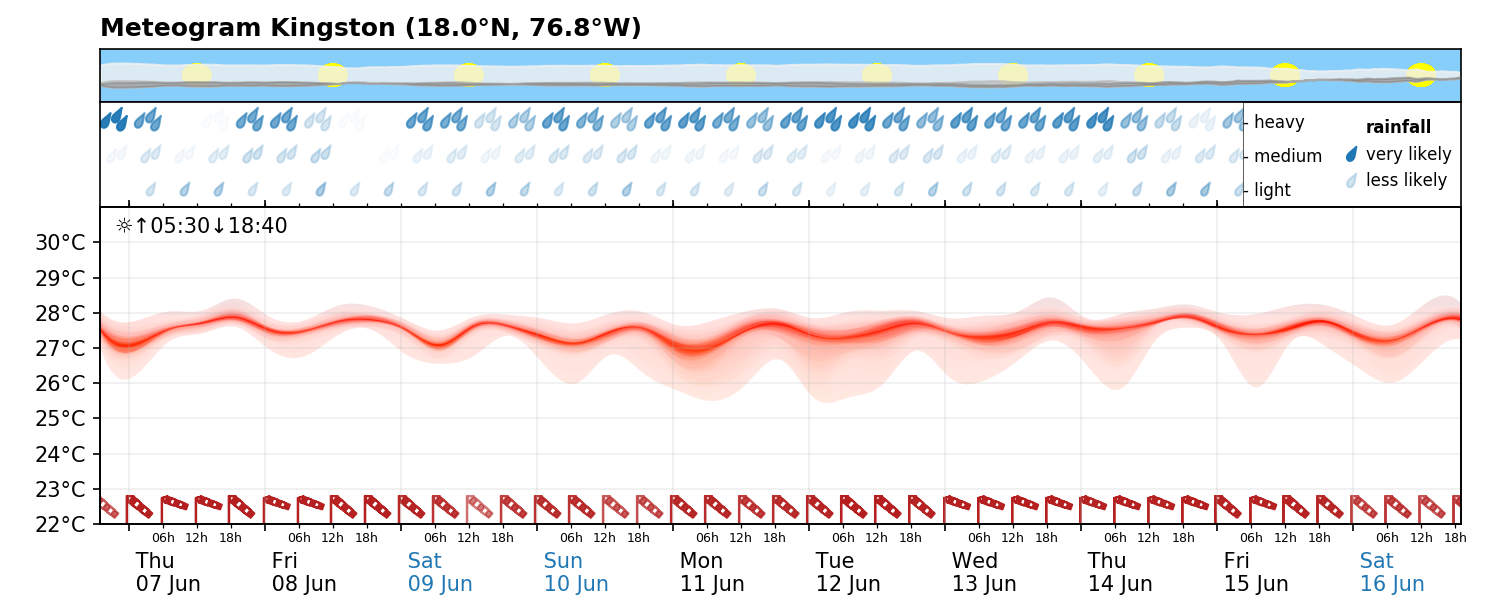
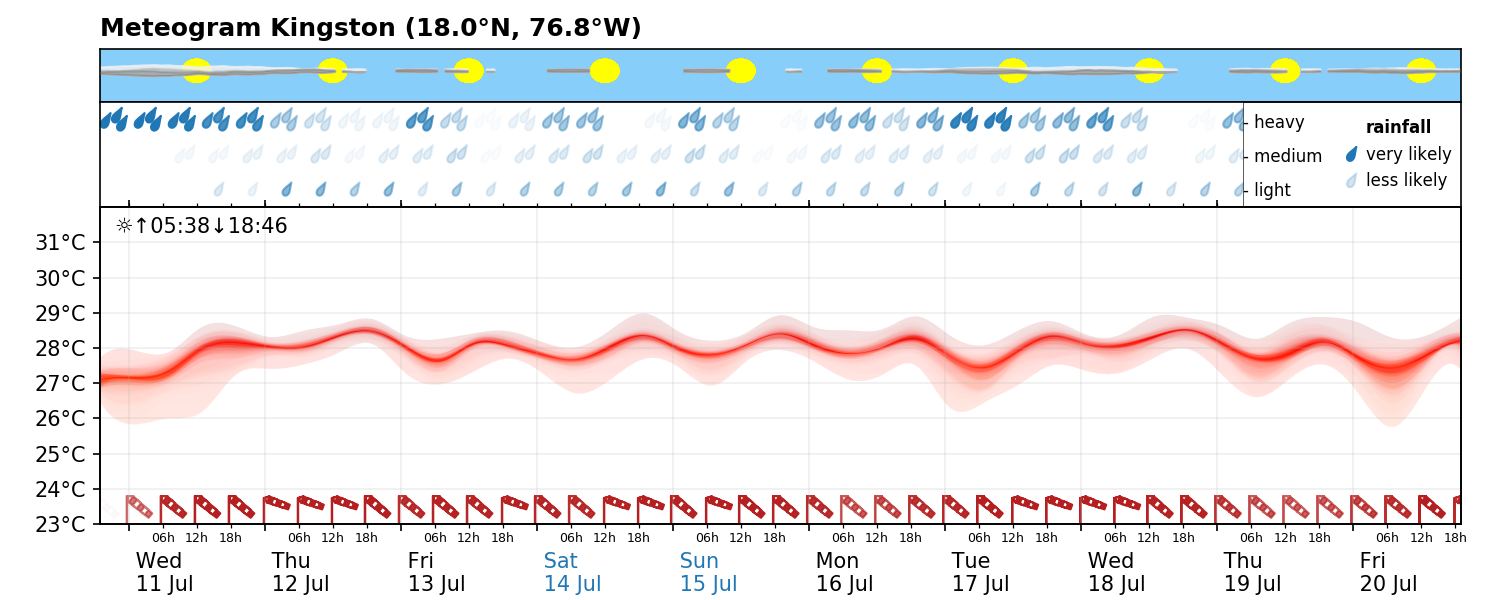
with lightning bolts

diff --git a/meteogram.py b/meteogram.py
@@ -19,6 +19,7 @@ import pytz
 import warnings
 from droplet import droplet
 from wind_sock import wind_sock
+from lightning_bolt import lightning_bolt
 
 # LOCATION ARGUMENT
 tz = tzwhere.tzwhere()
@@ -36,42 +37,6 @@ else:
 def find_closest(x,a):
     """ Finds the closest index in x to a given value a."""
     return np.argmin(abs(x-a))
-
-def add_clouds_to(axis,dates,highcloud,midcloud,lowcloud, interp=True):
-    """ Adds the different types of clouds to a given axis."""
-    # add sun (and moon?)
-    for t in np.arange(len(dates)):
-        idate = datetime.datetime(2018,6,7,12,0)
-        while idate < dates[-1]:
-            #sun = Circle((dates[t], 0.5), 0.2, color='yellow', zorder=0)
-            sun = Ellipse((idate, 0.5), 0.4/2., 0.4, angle=0.0, color='yellow', zorder=0)
-            axis.add_artist(sun)
-            idate = idate + datetime.timedelta(1)
-
-    # interpolate dates (if set)
-    if interp:
-        dates = spline_dates(dates)
-
-    # add mean cloud covers and scale to [0...1]
-    highcloudm = np.median(highcloud,axis=1)
-    midcloudm = np.median(midcloud,axis=1)
-    lowcloudm = np.median(lowcloud,axis=1)
-
-    totalcloud=(highcloudm+midcloudm+lowcloudm)/3.
-    totalcloudhalf=totalcloud/2.
-    lowerbound=-totalcloudhalf+0.5
-    upperbound=totalcloudhalf+0.5
-
-    # don't plot clouds where totalcloud <= e.g. 0.05
-    threshold=0.05
-
-    # highcloud light grey, lowcloud dark grey
-    axis.fill_between(dates, y1=lowerbound, y2=upperbound, color='0.95',zorder=1, alpha=0.8, edgecolor='none',where=totalcloud>=threshold)
-    axis.fill_between(dates, y1=lowerbound, y2=upperbound-highcloudm/3., color='0.7',zorder=2, alpha=0.6, edgecolor='none',where=totalcloud>=threshold)
-    axis.fill_between(dates, y1=lowerbound, y2=lowerbound+lowcloudm/3.,  color='0.4',zorder=3, alpha=0.3, edgecolor='none',where=totalcloud>=threshold)
-    axis.set_facecolor('lightskyblue')
-    axis.set_xlim([dates[0],dates[-1]])
-    axis.set_ylim([0., 1])
 
 def convert_longitude(lon):
     if lon < 0:
@@ -126,7 +91,7 @@ def sunrise_string(loc,date,utcoffset):
     return sunsymb+arrowup+sunrise_str+arrowdn+sunset_str
 
 # READ DATA
-DAT = Dataset(HERE_PATH+"/data/forecast.nc")
+DAT = Dataset(HERE_PATH+"/data/surface.nc")
 DATrain = Dataset(HERE_PATH+"/data/precip.nc")
 
 # grid
@@ -267,7 +232,7 @@ def storm(spd):
     
     # turn into alpha values
     colormat = np.zeros((p_storm.shape[0],4))
-    colormat[:,0] = color[0]         # RGB values of "C0" matplotlib standard
+    colormat[:,0] = color[0]
     colormat[:,1] = color[1]
     colormat[:,2] = color[2]
     
@@ -277,12 +242,45 @@ def storm(spd):
 
 p_storm,storm_strength = storm(spd)
 
+def lightning(lcc,mcc,hcc):
+    # fake some lightning chance
+    tcc = (hcc + mcc + lcc)/3.
+    cthresh = 0.95
+    p_light = np.mean(tcc > cthresh,axis=1)
+    
+    p_light[p_light >= 0.5] = 1.
+    p_light[np.logical_and(p_light >= 0.1,p_light < .5)] = .7
+    p_light[p_light < 0.1] = 0.
+    
+    # turn into alpha values
+    colormat1 = np.zeros((p_light.shape[0],4))
+    colormat1[:,0] = 1.
+    colormat1[:,1] = 1.
+    colormat1[:,2] = 0.
+    
+    colormat1[:,3] = p_light
+    
+    colormat2 = np.zeros((p_light.shape[0],4))
+    colormat2[:,0] = 0.
+    colormat2[:,1] = 0.
+    colormat2[:,2] = 0.
+    
+    colormat2[:,3] = p_light
+    
+    
+    return colormat1,colormat2
+
+p_light1,p_light2 = lightning(lcc,mcc,hcc)
+    
+
 #  axes formatting
 def cloud_ax_format(ax,dates,loc):
     loc_name = loc.address.split(",")[0]
     ax.set_title("Meteogram "+loc_name+" ("+lat_string(loc.latitude)+", "+lon_string(loc.longitude)+")",loc="left",fontweight="bold")
     ax.set_xticks([])
     ax.set_yticks([])
+    ax.set_xlim([dates[0],dates[-1]])
+    ax.set_ylim([-0.2, 1])
 
 def rain_ax_format(ax,dates,rain_explanation,dsize=78,dstring=(2,0,45)):
     ax.set_xlim(dates[0],dates[-1])
@@ -372,6 +370,40 @@ def wind_ax_format(ax,dates):
     # ax.get_xaxis().set_tick_params(which='minor', direction='in')
     # ax.get_xaxis().set_tick_params(which='major', direction='in')
     ax.set_xticklabels([])
+    
+def clouds_plotter(axis,dates,highcloud,midcloud,lowcloud, interp=True):
+    """ Adds the different types of clouds to a given axis."""
+    # add sun (and moon?)
+    for t in np.arange(len(dates)):
+        idate = datetime.datetime(2018,6,7,12,0)
+        while idate < dates[-1]:
+            #sun = Circle((dates[t], 0.5), 0.2, color='yellow', zorder=0)
+            sun = Ellipse((idate, 0.5), 0.4/2., 0.5, angle=0.0, color='yellow', zorder=0)
+            axis.add_artist(sun)
+            idate = idate + datetime.timedelta(1)
+
+    # interpolate dates (if set)
+    if interp:
+        dates = spline_dates(dates)
+
+    # add mean cloud covers and scale to [0...1]
+    highcloudm = np.median(highcloud,axis=1)
+    midcloudm = np.median(midcloud,axis=1)
+    lowcloudm = np.median(lowcloud,axis=1)
+
+    totalcloud=(highcloudm+midcloudm+lowcloudm)/3.
+    totalcloudhalf=totalcloud/2.
+    lowerbound=-totalcloudhalf+0.5
+    upperbound=totalcloudhalf+0.5
+
+    # don't plot clouds where totalcloud <= e.g. 0.05
+    threshold=0.05
+
+    # highcloud light grey, lowcloud dark grey
+    axis.fill_between(dates, y1=lowerbound, y2=upperbound, color='0.95',zorder=1, alpha=0.8, edgecolor='none',where=totalcloud>=threshold)
+    axis.fill_between(dates, y1=lowerbound, y2=upperbound-highcloudm/3., color='0.7',zorder=2, alpha=0.6, edgecolor='none',where=totalcloud>=threshold)
+    axis.fill_between(dates, y1=lowerbound, y2=lowerbound+lowcloudm/3.,  color='0.4',zorder=3, alpha=0.3, edgecolor='none',where=totalcloud>=threshold)
+    axis.set_facecolor('lightskyblue')
 
 
 def temp_plotter(ax, dates, t_mean_spline, t_data_spline, tminmax,color='white',alpha=0.09):
@@ -415,7 +447,7 @@ def rain_plotter(ax,lightrain,medrain,heavyrain,rdates,dsize=78,dstring=(2,0,45)
     dropletpath = droplet(rot=-30)
 
     # light rain
-    rain_ax.scatter([d for d in rdates],np.zeros_like(rdates),dsize*0.9,color=lightrain,marker=dropletpath)
+    rain_ax.scatter(rdates,np.zeros_like(rdates),dsize*0.9,color=lightrain,marker=dropletpath)
     
     # medium rain
     rain_ax.scatter([d+dt for d in rdates],1.05+np.zeros_like(rdates),dsize,color=medrain,marker=dropletpath)
@@ -440,6 +472,11 @@ def wind_plotter(ax,dates,p_storm,storm_strength,tminmax):
     ax.scatter([d for q,d in zip(q1,dates) if q],np.ones_like(dates)[q1]*y0+(y1-y0)*0.04,350,color=p_storm[q1,:],marker=windsock_medi)
     ax.scatter([d for q,d in zip(q2,dates) if q],np.ones_like(dates)[q2]*y0+(y1-y0)*0.04,400,color=p_storm[q2,:],marker=windsock_stro)
     
+def lightning_plotter(ax,dates,p_light1,p_light2):
+    boltpath = lightning_bolt()
+    #ax.scatter(dates,0.1*np.ones_like(dates),80,marker=boltpath,color=p_light2,zorder=4)
+    ax.scatter(dates,0.1*np.ones_like(dates),80,marker=boltpath,color=p_light1,zorder=5)
+    
     
 # PLOTTING
 fig = plt.figure(figsize=(10,4))
@@ -458,9 +495,10 @@ rain_ax_format(rain_ax,dates,rain_explanation)
 temp_ax_format(temp_ax,tminmax,dates,utcoffset)
 
 temp_plotter(temp_ax, dates, t_mean_spline, t_data_spline, tminmax)
-add_clouds_to(cloud_ax,dates,hcc_data_spline,mcc_data_spline,lcc_data_spline)
+clouds_plotter(cloud_ax,dates,hcc_data_spline,mcc_data_spline,lcc_data_spline)
 rain_plotter(rain_ax,lightrain,medrain,heavyrain,rdates)
 wind_plotter(temp_ax,dates,p_storm,storm_strength,tminmax)
+lightning_plotter(cloud_ax,dates,p_light1,p_light2)
 
 if OUTPUT:
     plt.savefig("examples/meteogram_"+loc.address.split(",")[0]+".png",dpi=150)

diff --git a/lightning_bolt.py b/lightning_bolt.py
@@ -1,0 +1,39 @@
+import matplotlib.pyplot as plt
+from matplotlib.path import Path
+import matplotlib.patches as patches
+from matplotlib.collections import PatchCollection
+import numpy as np
+        
+def lightning_bolt(xy=(0.,0.),width=0.6,height=1.,rot=0.):
+        
+    # convert to x,y being in the middle of the droplet
+    x = xy[0]-width/2
+    y = xy[1]-height/2
+    
+    h1 = 0.7*height
+    h2 = 0.55*height
+    
+    verts = [
+    (x,y),
+    (x+width/2,y+h2),
+    (x,y+h2),
+    (x+width/2,y+height),
+    (x+width,y+height),
+    (x+width/2,y+h1),
+    (x+width,y+h1),
+    (x,y)
+    ]
+    
+    codes = [Path.MOVETO]+[Path.LINETO]*(len(verts)-2)+[Path.CLOSEPOLY]
+    
+    return Path(verts,codes)
+    
+    
+# fig,ax = plt.subplots(1,1)
+# patch = patches.PathPatch(lightning_bolt(), facecolor='yellow', lw=1)
+# ax.add_patch(patch)
+# 
+# ax.set_xlim(-1,1)
+# ax.set_ylim(-1,1)
+# plt.savefig("lightning_bolt.png",dpi=300)
+# plt.close(fig)

diff --git a/create_examples.py b/create_examples.py
@@ -8,7 +8,17 @@ locations = ["Santiago Chile",
             "Hobart Australia",
             "Fairbanks Alaska",
             "Cape Town South Africa",
-            "Rio de Janeiro Brazil"]
+            "Rio de Janeiro Brazil",
+            "Porto Portugal",
+            "Honolulu Hawaii",
+            "Hong Kong",
+            "Moscow Russia",
+            "Longyearbyen Svalbard",
+            "Delhi India",
+            "Rome Italy",
+            "Accra Ghana",
+            "Teheran Iran",
+            "Christchurch New Zealand"]
 
 for loc in locations:
     os.system("python meteogram.py '"+loc+"' 1")
